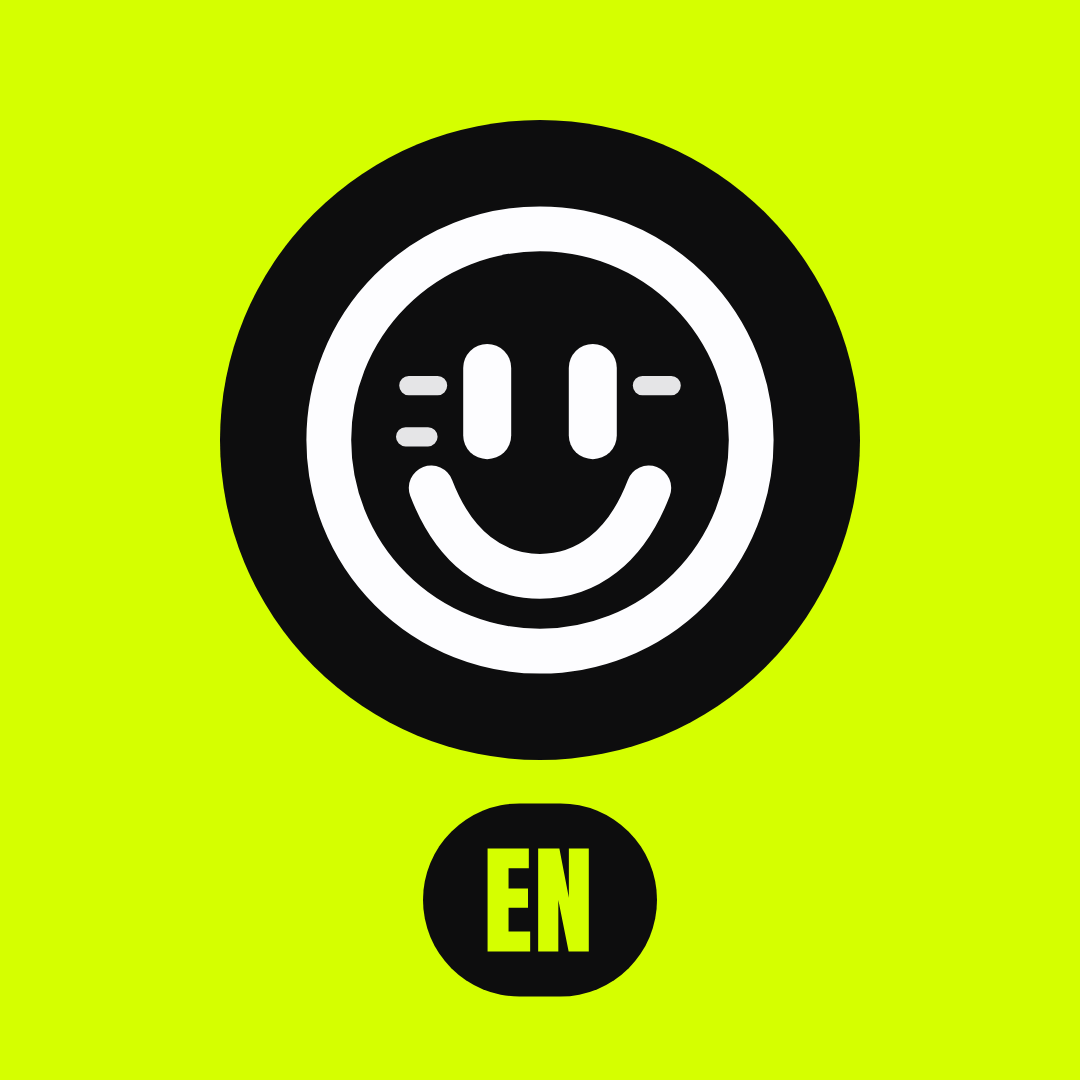
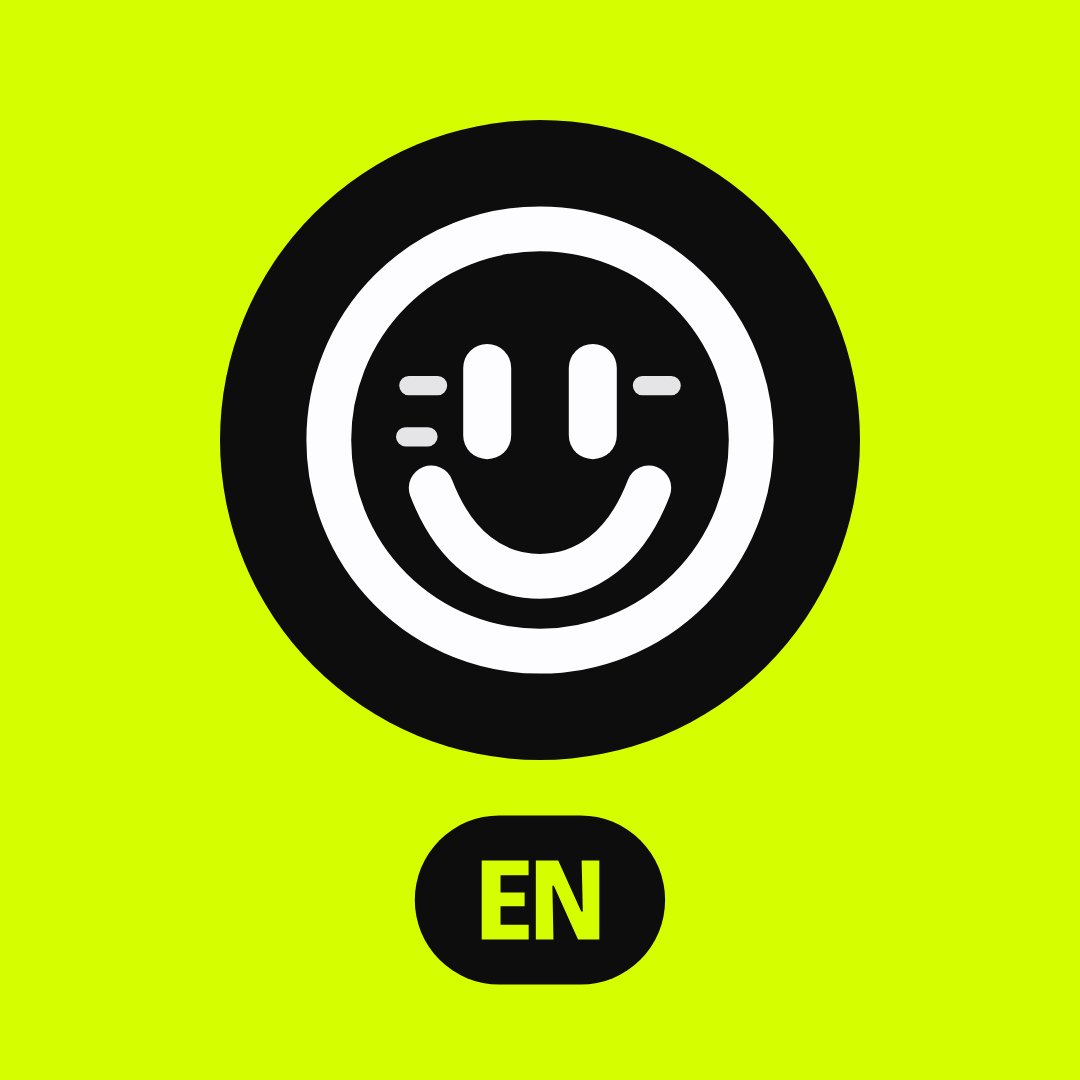
feat(site): Bricolage Grotesque, roomier sections, more scroll animation
Claude-Session: https://claude.ai/code/session_019MkVprTTpAJLz9LmZVSh61

Changed region(s): [[0.3667, 0.7333, 0.6417, 0.9472], [0.3972, 0.7639, 0.4278, 0.7944]]

diff --git a/src/lib/components/landing/Story.svelte b/src/lib/components/landing/Story.svelte
@@ -1,61 +1,73 @@
 <script lang="ts">
+	import { onMount } from 'svelte';
 	import Smiley from '../Smiley.svelte';
 	import { CATEGORY_IDS } from '#lib/data/categories.ts';
 	import { CATEGORY_LABEL } from '#lib/i18n/dict.ts';
 	import { getI18n } from '#lib/i18n/index.svelte.ts';
-	import { reveal } from '#lib/motion.ts';
+	import { motion, parallax, popIn, reduced, reveal, wordsUp } from '#lib/motion.ts';
 
 	let { onstart }: { onstart: () => void } = $props();
 	const i = getI18n();
 	const topics = $derived([...CATEGORY_IDS, ...CATEGORY_IDS].map((c) => CATEGORY_LABEL[i.lang][c]));
 	const steps = [1, 2, 3] as const;
 	const feats = [
-		{ t: 'feat.streak.t', d: 'feat.streak.d', cls: 'bg-fire text-paper rounded-t-[220px] rounded-b-[32px] justify-end pt-24' },
+		{ t: 'feat.streak.t', d: 'feat.streak.d', cls: 'bg-fire text-paper rounded-t-[220px] rounded-b-[32px] justify-end pt-28' },
 		{ t: 'feat.fav.t', d: 'feat.fav.d', cls: 'bg-paper text-ink rounded-[32px] justify-end' },
-		{ t: 'feat.share.t', d: 'feat.share.d', cls: 'bg-acid text-ink rounded-t-[32px] rounded-b-[220px] justify-start pb-24' },
+		{ t: 'feat.share.t', d: 'feat.share.d', cls: 'bg-acid text-ink rounded-t-[32px] rounded-b-[220px] justify-start pb-28' },
 		{ t: 'feat.news.t', d: 'feat.news.d', cls: 'bg-ink-2 text-paper rounded-[32px] justify-end' }
 	] as const;
+
+	let band: HTMLElement;
+	onMount(() => {
+		if (reduced()) return;
+		const { gsap } = motion();
+		// The topics band tilts and slides a bit with the scroll, on top of its own loop
+		const t = gsap.fromTo(band, { rotate: -4, xPercent: -3 }, { rotate: 1, xPercent: 3, ease: 'none', scrollTrigger: { trigger: band, start: 'top bottom', end: 'bottom top', scrub: true } });
+		return () => { t.scrollTrigger?.kill(); t.kill(); };
+	});
 </script>
 
 <!-- Topics band -->
-<section aria-label="Topics" class="overflow-hidden bg-ink py-6">
-<div class="-mx-10 -rotate-[1.5deg] overflow-hidden bg-acid py-5 text-ink">
-	<div class="marquee items-center gap-8" style="--speed: 38s">
-		{#each [0, 1] as k (k)}
-			<div class="flex shrink-0 items-center gap-8 pr-8">
-				{#each topics as t, n (n)}
-					<span class="display text-[clamp(2.2rem,4vw,3rem)] leading-none">{t}</span>
-					<span class="text-3xl text-fire">✶</span>
-				{/each}
-			</div>
-		{/each}
+<section aria-label="Topics" class="overflow-hidden bg-ink py-16 sm:py-24">
+	<div bind:this={band} class="-mx-16 overflow-hidden bg-acid py-6 text-ink">
+		<div class="marquee items-center" style="--speed: 36s">
+			{#each [0, 1] as k (k)}
+				<div class="flex shrink-0 items-center gap-10 pr-10">
+					{#each topics as t, n (n)}
+						<span class="display text-[clamp(2.4rem,4.6vw,3.6rem)] leading-none">{t}</span>
+						<Smiley size={0} color={n % 2 ? 'ink' : 'orange'} class="h-10 w-10 animate-spin-slow sm:h-12 sm:w-12" />
+					{/each}
+				</div>
+			{/each}
+		</div>
 	</div>
-</div>
 </section>
 
 <!-- One phrase -->
-<section class="relative bg-ink px-5 py-32 text-center text-paper sm:py-40">
+<section class="relative overflow-hidden bg-ink px-5 py-40 text-center text-paper sm:py-56">
 	<div aria-hidden="true" class="pointer-events-none">
-		<Smiley size={0} color="orange" wink class="animate-float absolute top-20 left-[8%] h-20 w-20 [--r:-12deg] sm:h-28 sm:w-28" />
-		<Smiley size={0} color="cream" mood="calm" class="animate-float absolute top-36 right-[9%] h-16 w-16 [animation-delay:-2s] sm:h-24 sm:w-24" />
-		<Smiley size={0} color="sun" class="animate-float absolute bottom-24 left-[15%] h-14 w-14 [animation-delay:-1s] sm:h-20 sm:w-20" />
-		<span class="absolute right-[17%] bottom-20 h-28 w-28 rounded-full ring-2 ring-paper/15"></span>
+		<div use:parallax={0.5} class="absolute top-24 left-[8%]"><Smiley size={0} color="orange" wink class="animate-float h-20 w-20 [--r:-12deg] sm:h-32 sm:w-32" /></div>
+		<div use:parallax={-0.4} class="absolute top-44 right-[9%]"><Smiley size={0} color="cream" mood="calm" class="animate-float h-16 w-16 [animation-delay:-2s] sm:h-24 sm:w-24" /></div>
+		<div use:parallax={0.35} class="absolute bottom-28 left-[15%]"><Smiley size={0} color="sun" class="animate-float h-14 w-14 [animation-delay:-1s] sm:h-20 sm:w-20" /></div>
+		<span use:parallax={-0.5} class="absolute right-[17%] bottom-24 h-32 w-32 rounded-full ring-2 ring-paper/15"></span>
 	</div>
-	<p class="text-sm font-bold tracking-[0.14em] text-fire">{i.t('phrase.kicker')}</p>
-	<h2 class="display mx-auto mt-5 max-w-4xl text-[clamp(3.4rem,8vw,7rem)]">{i.t('phrase.t1')}<br />{i.t('phrase.t2')}<br /><span class="text-acid">{i.t('phrase.t3')}</span></h2>
-	<p class="mx-auto mt-7 max-w-lg text-lg leading-relaxed text-paper/70">{i.t('phrase.sub')}</p>
-	<button class="mt-9 rounded-full bg-paper px-7 py-4 font-bold text-ink transition hover:bg-acid" onclick={onstart}>{i.t('phrase.cta')}</button>
+	{#key i.lang}
+		<p use:reveal class="text-sm font-bold tracking-[0.16em] text-fire">{i.t('phrase.kicker')}</p>
+		<h2 use:wordsUp class="display mx-auto mt-6 max-w-5xl text-[clamp(3.4rem,8.5vw,7.8rem)]">{i.t('phrase.t1')}<br />{i.t('phrase.t2')}<br /><span class="text-acid">{i.t('phrase.t3')}</span></h2>
+		<p use:reveal={{ delay: 0.2 }} class="mx-auto mt-10 max-w-lg text-lg leading-relaxed text-paper/70">{i.t('phrase.sub')}</p>
+	{/key}
+	<button use:reveal={{ delay: 0.3 }} class="mt-12 rounded-full bg-paper px-8 py-4 font-bold text-ink transition hover:-translate-y-1 hover:bg-acid" onclick={onstart}>{i.t('phrase.cta')}</button>
 </section>
 
 <!-- How -->
-<section id="how" class="bg-ink pb-28 text-paper">
+<section id="how" class="bg-ink pt-16 pb-40 text-paper sm:pb-52">
 	<div class="container-site">
-		<h2 class="display text-[clamp(2.8rem,5.5vw,4.6rem)]">{i.t('how.big')}</h2>
-		<div class="mt-10 grid gap-4 md:grid-cols-3" use:reveal={{ children: true, stagger: 0.1 }}>
+		{#key i.lang}<h2 use:wordsUp class="display max-w-3xl text-[clamp(3rem,6vw,5.4rem)]">{i.t('how.big')}</h2>{/key}
+		<div class="mt-16 grid gap-5 md:grid-cols-3" use:popIn={{ rotate: 3 }}>
 			{#each steps as n (n)}
-				<article class="flex min-h-[260px] flex-col gap-4 rounded-[28px] bg-ink-2 p-8">
-					<span class="display text-[5.5rem] leading-[0.8] text-acid">0{n}</span>
-					<h3 class="text-2xl font-bold">{i.t(`how.${n}.t` as 'how.1.t')}</h3>
+				<article class="group flex min-h-[300px] flex-col gap-5 rounded-[32px] bg-ink-2 p-9 transition-[translate,rotate,scale,background-color] duration-500 hover:-translate-y-2 hover:bg-ink-3">
+					<span class="display text-[6.5rem] leading-[0.8] text-acid transition-transform duration-500 group-hover:-rotate-6">0{n}</span>
+					<h3 class="font-display text-[1.7rem] leading-tight font-bold tracking-[-0.02em]">{i.t(`how.${n}.t` as 'how.1.t')}</h3>
 					<p class="leading-relaxed text-paper/65">{i.t(`how.${n}.d` as 'how.1.d')}</p>
 				</article>
 			{/each}
@@ -64,13 +76,16 @@
 </section>
 
 <!-- Features -->
-<section class="bg-ink pb-28 text-paper">
-	<div class="container-site grid gap-4 sm:grid-cols-2 lg:grid-cols-4" use:reveal={{ children: true, stagger: 0.1 }}>
-		{#each feats as f (f.t)}
-			<article class="flex min-h-[340px] flex-col gap-3 p-8 {f.cls}">
-				<h3 class="display text-5xl">{i.t(f.t)}</h3>
-				<p class="leading-relaxed opacity-80">{i.t(f.d)}</p>
-			</article>
-		{/each}
+<section class="bg-ink pb-40 text-paper sm:pb-52">
+	<div class="container-site">
+		{#key i.lang}<h2 use:wordsUp class="display mb-16 max-w-3xl text-[clamp(3rem,6vw,5.4rem)]">{i.t('feat.title')}</h2>{/key}
+		<div class="grid gap-5 sm:grid-cols-2 lg:grid-cols-4" use:popIn>
+			{#each feats as f (f.t)}
+				<article class="flex min-h-[380px] flex-col gap-3 p-9 transition-[translate,rotate,scale,background-color] duration-500 hover:-translate-y-2 hover:rotate-[-1deg] {f.cls}">
+					<h3 class="display text-[clamp(2.4rem,2.9vw,3.2rem)] [overflow-wrap:anywhere]">{i.t(f.t)}</h3>
+					<p class="leading-relaxed opacity-80">{i.t(f.d)}</p>
+				</article>
+			{/each}
+		</div>
 	</div>
 </section>

diff --git a/src/lib/components/landing/HeroWall.svelte b/src/lib/components/landing/HeroWall.svelte
@@ -18,7 +18,8 @@
 		if (reduced()) return;
 		const { gsap } = motion();
 		const ctx = gsap.context(() => {
-			gsap.from('[data-rise]', { y: 40, autoAlpha: 0, duration: 1, stagger: 0.08, ease: 'expo.out', delay: 0.1 });
+			gsap.from('[data-rise]', { y: 60, autoAlpha: 0, duration: 1.2, stagger: 0.1, ease: 'expo.out', delay: 0.1 });
+			gsap.to('[data-spin]', { rotate: 360, ease: 'none', scrollTrigger: { trigger: root, start: 'top top', end: 'bottom top', scrub: true } });
 			gsap.from('[data-tile]', { y: 80, autoAlpha: 0, scale: 0.94, duration: 1.1, stagger: 0.07, ease: 'expo.out', delay: 0.25 });
 			// columns drift at different speeds while scrolling
 			gsap.to('[data-col="1"]', { yPercent: -8, ease: 'none', scrollTrigger: { trigger: root, start: 'top top', end: 'bottom top', scrub: true } });
@@ -28,13 +29,13 @@
 	});
 </script>
 
-<section bind:this={root} class="relative overflow-hidden bg-ink pt-28 pb-20 text-paper sm:pt-32 lg:min-h-[100svh]">
+<section bind:this={root} class="relative overflow-hidden bg-ink pt-32 pb-28 text-paper sm:pt-40 sm:pb-36 lg:min-h-[100svh]">
 	<div class="container-site grid items-center gap-14 lg:grid-cols-[1fr_1.05fr]">
-		<div class="flex flex-col gap-7">
+		<div class="flex flex-col gap-8">
 			<p data-rise class="inline-flex items-center gap-2.5 self-start rounded-full py-2 pr-4 pl-2.5 text-sm font-semibold ring-1 ring-paper/20">
 				<span class="h-2.5 w-2.5 rounded-full bg-fire"></span>{i.t('h2.kicker')}
 			</p>
-			<h1 data-rise class="display text-[clamp(3.6rem,8.4vw,7.2rem)] leading-[0.88]">
+			<h1 data-rise class="display text-[clamp(4rem,9vw,8rem)] leading-[0.86]">
 				{i.t('h2.title.1')}<br /><span class="text-acid">{i.t('h2.title.2')}</span>
 			</h1>
 			<p data-rise class="max-w-md text-lg leading-relaxed text-paper/70">{i.t('h2.lead')}</p>
@@ -51,15 +52,15 @@
 		<div class="grid grid-cols-3 gap-3 sm:gap-4" aria-hidden="true">
 			{#key i.lang}
 				<div data-col="1" class="flex flex-col gap-3 sm:gap-4">
-					<video data-tile class="aspect-[9/16] w-full rounded-[22px] bg-ink-2 object-cover" src="{vid(1)}.mp4" poster="{vid(1)}.jpg" autoplay muted loop playsinline preload="metadata"></video>
+					<video data-tile class="aspect-[9/16] w-full rounded-[22px] transition-[translate,rotate,scale,background-color] duration-500 hover:scale-[1.03] bg-ink-2 object-cover" src="{vid(1)}.mp4" poster="{vid(1)}.jpg" autoplay muted loop playsinline preload="metadata"></video>
 					<div data-tile class="flex aspect-square flex-col justify-between rounded-[22px] bg-fire p-4">
 						<Fire weight="fill" size={28} />
 						<div><p class="display text-5xl leading-none">12</p><p class="text-xs font-semibold sm:text-sm">{i.t('tile.streak')}</p></div>
 					</div>
 				</div>
 				<div data-col="2" class="mt-10 flex flex-col gap-3 sm:gap-4">
-					<div data-tile class="grid aspect-square place-items-center rounded-full bg-acid"><Smiley size={0} color="ink" class="h-[72%] w-[72%]" /></div>
-					<video data-tile class="aspect-[9/16] w-full rounded-[22px] bg-ink-2 object-cover" src="{vid(2)}.mp4" poster="{vid(2)}.jpg" autoplay muted loop playsinline preload="metadata"></video>
+					<div data-tile class="grid aspect-square place-items-center rounded-full bg-acid"><span data-spin class="grid h-[72%] w-[72%] place-items-center"><Smiley size={0} color="ink" class="h-full w-full" /></span></div>
+					<video data-tile class="aspect-[9/16] w-full rounded-[22px] transition-[translate,rotate,scale,background-color] duration-500 hover:scale-[1.03] bg-ink-2 object-cover" src="{vid(2)}.mp4" poster="{vid(2)}.jpg" autoplay muted loop playsinline preload="metadata"></video>
 					<div data-tile class="flex aspect-square flex-col justify-between rounded-[22px] p-4 ring-2 ring-paper/15">
 						<span class="text-xs font-semibold text-paper/60">{i.t('tile.time')}</span>
 						<span class="display text-4xl leading-none sm:text-5xl">08:00</span>
@@ -69,7 +70,7 @@
 					<div data-tile class="flex aspect-square items-end rounded-[22px] bg-paper p-4 text-ink">
 						<p class="display text-[clamp(1rem,1.9vw,1.6rem)] leading-[0.95]"><PhraseText text={quote[i.lang]} /></p>
 					</div>
-					<video data-tile class="aspect-[9/16] w-full rounded-[22px] bg-ink-2 object-cover" src="{vid(3)}.mp4" poster="{vid(3)}.jpg" autoplay muted loop playsinline preload="metadata"></video>
+					<video data-tile class="aspect-[9/16] w-full rounded-[22px] transition-[translate,rotate,scale,background-color] duration-500 hover:scale-[1.03] bg-ink-2 object-cover" src="{vid(3)}.mp4" poster="{vid(3)}.jpg" autoplay muted loop playsinline preload="metadata"></video>
 				</div>
 			{/key}
 		</div>

diff --git a/src/lib/motion.ts b/src/lib/motion.ts
@@ -159,3 +159,39 @@ export function confetti(count = 60) {
 		});
 	}
 }
+
+/** use:wordsUp — headline words rise and settle one by one when scrolled into view (no mask: accents never clip).
+ *  Wrap the element in {#key i.lang} so a language switch rebuilds it. */
+export function wordsUp(node: HTMLElement, opts: { delay?: number; scroll?: boolean } = {}) {
+	if (reduced()) return;
+	const { gsap, SplitText } = motion();
+	let split: SplitText | undefined;
+	let tween: gsap.core.Tween | undefined;
+	document.fonts.ready.then(() => {
+		split = SplitText.create(node, { type: 'words' });
+		tween = gsap.from(split.words, {
+			yPercent: 70,
+			rotate: 4,
+			autoAlpha: 0,
+			duration: 1.1,
+			ease: 'expo.out',
+			stagger: 0.07,
+			delay: opts.delay ?? 0,
+			scrollTrigger: opts.scroll !== false ? { trigger: node, start: 'top 88%', once: true } : undefined
+		});
+	});
+	return { destroy: () => { tween?.kill(); split?.revert(); } };
+}
+
+/** use:popIn — children pop in with a little rotation, like stickers being placed. */
+export function popIn(node: HTMLElement, opts: { stagger?: number; rotate?: number } = {}) {
+	if (reduced()) return;
+	const { gsap } = motion();
+	// fromTo with explicit end values: a plain from() run twice on the same node would animate hidden → hidden
+	const t = gsap.fromTo(
+		Array.from(node.children),
+		{ y: 120, scale: 0.88, rotate: (i: number) => (i % 2 ? 1 : -1) * (opts.rotate ?? 6), autoAlpha: 0 },
+		{ y: 0, scale: 1, rotate: 0, autoAlpha: 1, duration: 1.2, ease: 'expo.out', stagger: opts.stagger ?? 0.12, clearProps: 'transform', scrollTrigger: { trigger: node, start: 'top 85%', once: true } }
+	);
+	return { destroy: () => { t.scrollTrigger?.kill(); t.kill(); } };
+}

diff --git a/src/lib/components/landing/Pricing.svelte b/src/lib/components/landing/Pricing.svelte
@@ -3,7 +3,7 @@
 	import { PUBLIC_PREMIUM_PRICE } from '$app/env/public';
 	import { Check, Crown } from '#lib/icons.ts';
 	import { getI18n } from '#lib/i18n/index.svelte.ts';
-	import { reveal, splitReveal } from '#lib/motion.ts';
+	import { popIn, wordsUp } from '#lib/motion.ts';
 
 	let {
 		onfree,
@@ -14,15 +14,15 @@
 	const i = getI18n();
 </script>
 
-<section id="pricing" class="container-site py-24 sm:py-32">
+<section id="pricing" class="container-site pt-8 pb-40 sm:pb-52">
 	{#if heading}
 		<div class="text-center">
 			<p class="kicker !text-current opacity-60">{i.t('pricing.kicker')}</p>
-			<h2 class="display mx-auto mt-4 max-w-3xl text-[clamp(2.8rem,5.5vw,4.6rem)]">{i.t('pricing.big')}</h2>
+			{#key i.lang}<h2 use:wordsUp class="display mx-auto mt-5 max-w-5xl text-balance text-[clamp(3rem,6vw,5.4rem)]">{i.t('pricing.big')}</h2>{/key}
 		</div>
 	{/if}
 
-	<div class="mx-auto mt-14 grid max-w-4xl gap-5 md:grid-cols-2" use:reveal={{ children: true, stagger: 0.12 }}>
+	<div class="mx-auto mt-16 grid max-w-4xl gap-5 md:grid-cols-2" use:popIn={{ rotate: 4 }}>
 		<article class="flex flex-col rounded-[32px] bg-ink-2 p-8 text-paper sm:p-10">
 			<div class="flex items-center justify-between">
 				<h3 class="text-lg font-semibold">{i.t('premium.free')}</h3>

diff --git a/src/lib/components/Footer.svelte b/src/lib/components/Footer.svelte
@@ -8,6 +8,7 @@
 	import { track } from '#lib/analytics.ts';
 	import { feedback } from '#lib/feedback.svelte.ts';
 	import { ArrowRight, ChatDots, Instagram, TikTok } from '#lib/icons.ts';
+	import { parallax } from '#lib/motion.ts';
 
 	let { onstart }: { onstart?: () => void } = $props();
 	const i = getI18n();
@@ -15,7 +16,7 @@
 
 <footer class="bg-ink text-paper">
 	<!-- CTA band -->
-	<div class="container-site pt-20 pb-14">
+	<div class="container-site pt-10 pb-20">
 		<div class="relative overflow-hidden rounded-[36px] bg-acid px-7 py-12 text-ink sm:px-14 sm:py-16">
 			<div class="relative z-10 max-w-xl">
 				<p class="display text-5xl sm:text-7xl">{i.t('footer.cta')}</p>
@@ -81,5 +82,5 @@
 			<img src="/assets/unix-logo-white.svg" alt="Unix Creative Studio" width="71" height="28" class="h-7 w-auto transition-transform duration-500 ease-[cubic-bezier(0.3,1.6,0.5,1)] group-hover:-rotate-4 group-hover:scale-110" />
 		</a>
 	</div>
-	<p aria-hidden="true" class="display overflow-hidden text-center text-[22vw] leading-[0.78] text-ink-2 select-none">GoodPush</p>
+	<div class="overflow-hidden"><p aria-hidden="true" use:parallax={-0.15} class="display text-center text-[24vw] leading-[0.8] text-ink-2 select-none">GoodPush</p></div>
 </footer>

diff --git a/src/lib/components/landing/Faq.svelte b/src/lib/components/landing/Faq.svelte
@@ -1,14 +1,14 @@
 <script lang="ts">
 	import { Plus } from '#lib/icons.ts';
 	import { getI18n } from '#lib/i18n/index.svelte.ts';
-	import { reveal, splitReveal } from '#lib/motion.ts';
+	import { reveal, wordsUp } from '#lib/motion.ts';
 
 	const i = getI18n();
 	let open = $state<number | null>(1);
 </script>
 
-<section id="faq" class="container-site grid gap-10 pb-28 sm:pb-36 lg:grid-cols-[0.8fr_1.2fr]">
-	<h2 class="display text-[clamp(2.8rem,5.5vw,4.6rem)]">{i.t('faq.title')}</h2>
+<section id="faq" class="container-site grid gap-12 pb-40 sm:pb-52 lg:grid-cols-[0.8fr_1.2fr]">
+	{#key i.lang}<h2 use:wordsUp class="display text-[clamp(3rem,6vw,5.4rem)]">{i.t('faq.title')}</h2>{/key}
 	<div class="divide-y divide-current/15 border-y border-current/15" use:reveal={{ children: true }}>
 		{#each [1, 2, 3, 4] as n (n)}
 			<div>

diff --git a/src/routes/layout.css b/src/routes/layout.css
@@ -32,7 +32,7 @@
 	--color-lilac: #c7b5f2;
 	--color-sky: #a9c8ff;
 
-	--font-display: 'Anton', Impact, 'Arial Narrow', sans-serif;
+	--font-display: 'Bricolage Grotesque Variable', 'Inter Variable', sans-serif;
 	--font-round: 'Unbounded Variable', 'Arial Black', sans-serif;
 	--font-serif: 'Instrument Serif', Georgia, serif;
 	--font-sans: 'Inter Variable', ui-sans-serif, system-ui, sans-serif;
@@ -74,7 +74,8 @@
 
 @layer components {
 	.display {
-		@apply font-display leading-[0.92] font-normal tracking-[0.005em] uppercase;
+		@apply font-display leading-[0.9] font-extrabold tracking-[-0.045em];
+		font-stretch: 82%;
 	}
 	.soft {
 		@apply font-serif italic normal-case tracking-normal;

diff --git a/src/routes/+layout.svelte b/src/routes/+layout.svelte
@@ -1,6 +1,6 @@
 <script lang="ts">
 	// Self-hosted fonts (no Google Fonts requests → better for GDPR + offline)
-	import '@fontsource/anton/400.css';
+	import '@fontsource-variable/bricolage-grotesque/wdth.css';
 	import '@fontsource-variable/unbounded';
 	import '@fontsource/instrument-serif/400.css';
 	import '@fontsource/instrument-serif/400-italic.css';

diff --git a/tools/brand/build_brand.py b/tools/brand/build_brand.py
@@ -15,7 +15,8 @@ os.makedirs(OUT, exist_ok=True)
 INK, PAPER, SUN, CREAM = '#0D0D0E', '#FDFDFF', '#D5FF00', '#FDFDFF'
 
 # ---------- wordmark as vector paths (Anton, tracking +0.01em) ----------
-font = TTFont(os.path.join(ROOT, 'node_modules/@fontsource/anton/files/anton-latin-400-normal.woff2'))
+font = TTFont(os.path.join(ROOT, 'node_modules/@fontsource-variable/bricolage-grotesque/files/bricolage-grotesque-latin-wdth-normal.woff2'))
+font = instantiateVariableFont(font, {a.axisTag: (800 if a.axisTag == 'wght' else 82 if a.axisTag == 'wdth' else a.defaultValue) for a in font['fvar'].axes})
 gs, cmap, upm = font.getGlyphSet(), font.getBestCmap(), font['head'].unitsPerEm
 cap = font['OS/2'].sCapHeight or 700
 
@@ -28,7 +29,7 @@ def wordmark(text='GOODPUSH', size=100):
         pen = SVGPathPen(gs)
         gs[g].draw(TransformPen(pen, (s, 0, 0, -s, x, cap * s)))
         d.append(pen.getCommands())
-        x += gs[g].width * s + 0.01 * size
+        x += gs[g].width * s - 0.03 * size
     return ' '.join(d), x + 0.02 * size, cap * s
 
 def smiley(color=INK, mood='smile'):
